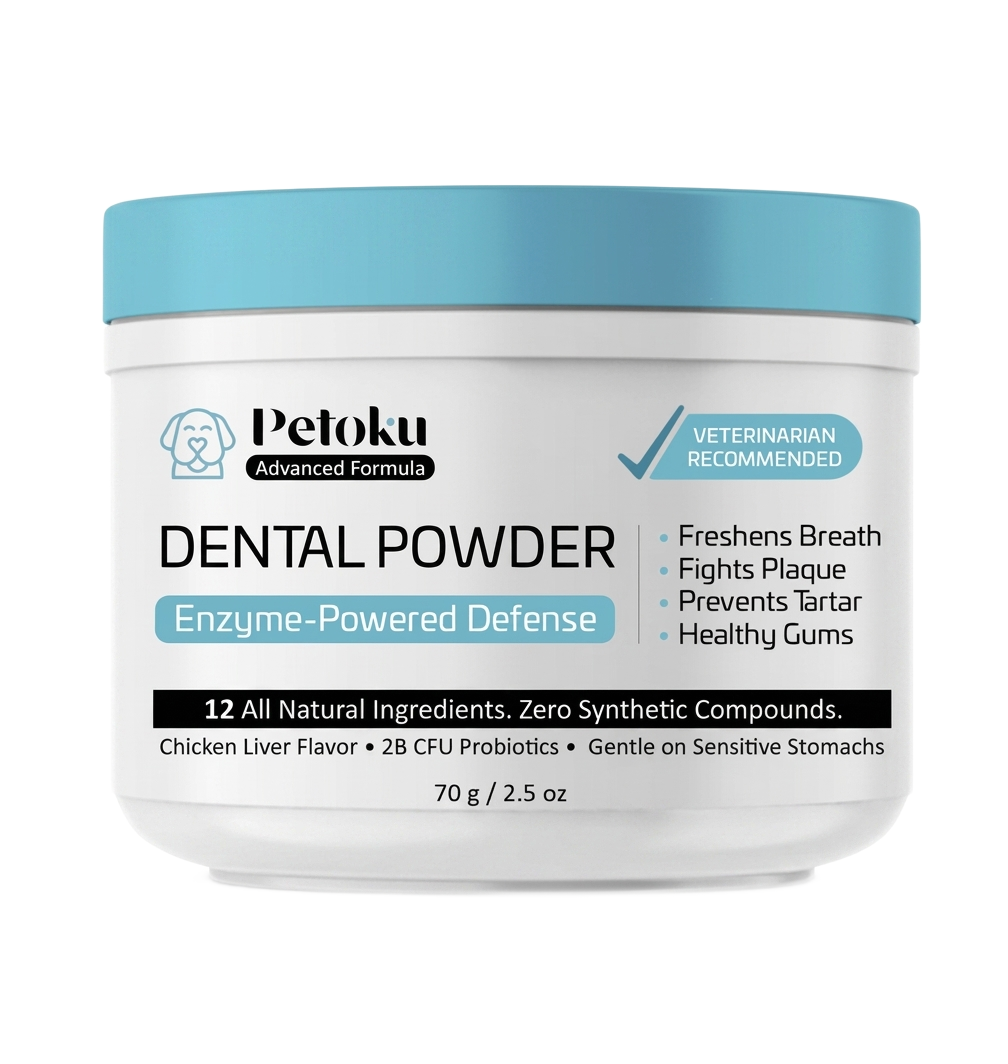
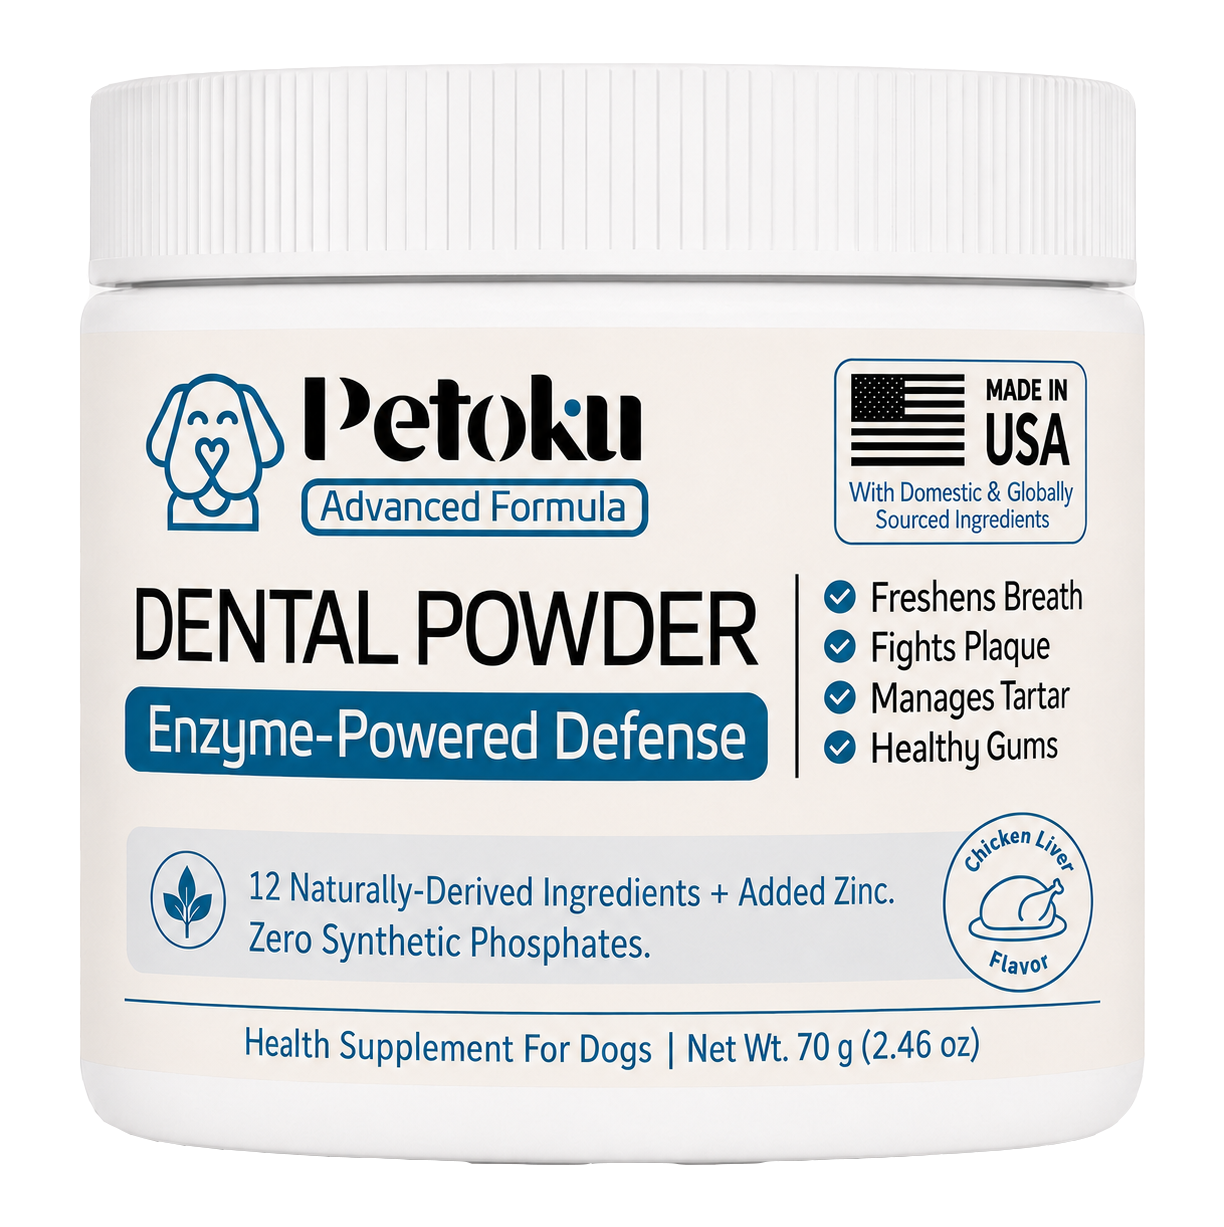
Update product image from No_Background.png to No_Background2.png

diff --git a/index.html b/index.html
@@ -227,7 +227,7 @@
 
           <div class="flex-1 flex justify-center md:justify-end reveal delay-2">
             <div style="filter:drop-shadow(0 32px 72px rgba(61,128,155,0.3)) drop-shadow(0 8px 24px rgba(61,128,155,0.2));">
-              <img src="brand_assets/No_Background.png"
+              <img src="brand_assets/No_Background2.png"
                 alt="Petoku Dental Powder"
                 class="w-80 md:w-88 lg:w-[420px] rounded-2xl" />
             </div>
@@ -283,7 +283,7 @@
           <div class="flex flex-col md:flex-row items-stretch">
             <div class="md:w-2/5 relative min-h-[320px]" style="background:linear-gradient(145deg,#2e6a82 0%,#3d809b 40%,#86b2c5 80%,#c4dce8 100%);">
               <div class="p-10 flex items-center justify-center h-full">
-                <img src="brand_assets/No_Background.png"
+                <img src="brand_assets/No_Background2.png"
                   alt="Petoku Dental Powder"
                   class="w-56 md:w-64 rounded-xl"
                   style="filter:drop-shadow(0 16px 40px rgba(17,17,17,0.28));" />
@@ -595,7 +595,7 @@
             <div class="relative" style="max-width:360px; width:100%;">
               <div class="relative rounded-3xl overflow-hidden"
                 style="box-shadow:0 16px 64px rgba(61,128,155,0.22), 0 4px 16px rgba(61,128,155,0.14);">
-                <img src="brand_assets/No_Background.png"
+                <img src="brand_assets/No_Background2.png"
                   alt="Petoku Dental Powder" class="w-full block" />
                 <div class="absolute inset-0"
                   style="background:linear-gradient(135deg,rgba(61,128,155,0.28) 0%,transparent 55%); pointer-events:none;"></div>
